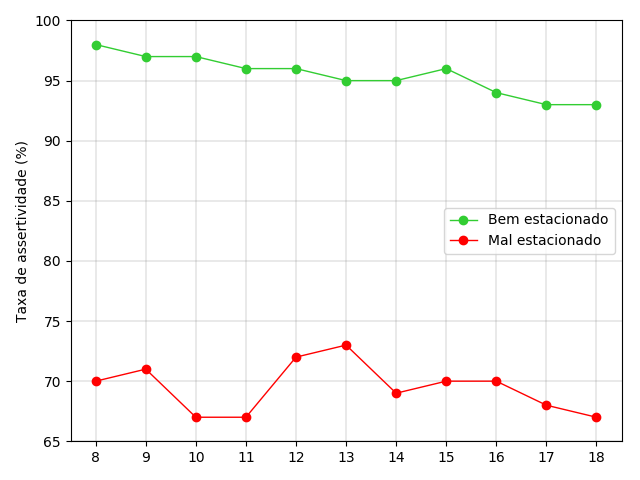
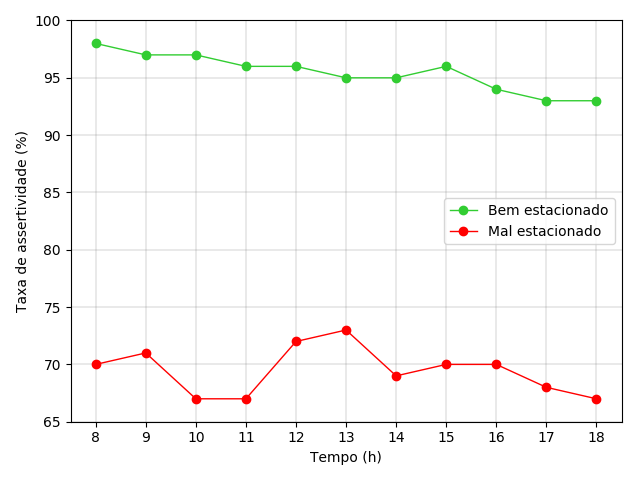
Correção no plot de precisão

diff --git a/codes/tests/sensor_node/medidas_ldr/teste_ldr.py b/codes/tests/sensor_node/medidas_ldr/teste_ldr.py
@@ -82,7 +82,7 @@ def plot_ldr_eff():
     ]
     p_array = np.array(percentages)               
     fig, ax2 = plt.subplots()
-    # ax2 = ax.twinx()  # instantiate a second axes that shares the same x-axis
+    ax2.set_xlabel("Tempo (h)")
 
     N = 11
     width = 0.25
@@ -121,5 +121,5 @@ def plot_ldr_eff():
 
 
 if __name__ == "__main__":
-    # plot_ldr_eff()
-    plot_lum_level()
+    plot_ldr_eff()
+    # plot_lum_level()
